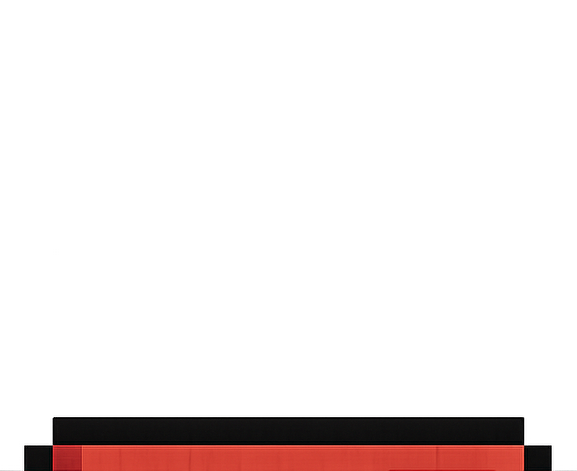
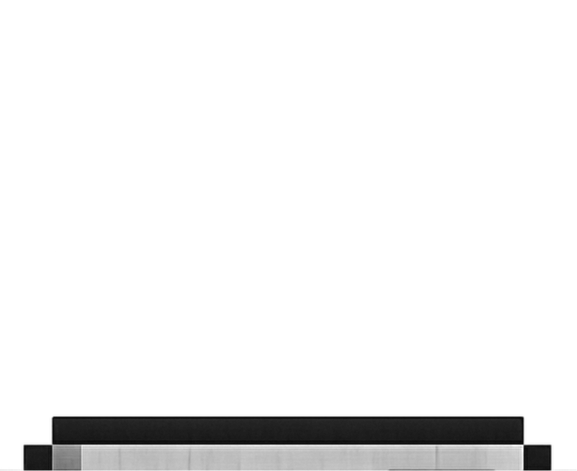
スイッチのグループごとに色分け

Changed region(s): [[0.0312, 0.8917, 0.9671, 1.0]]

diff --git a/src/grid.ts b/src/grid.ts
@@ -106,16 +106,24 @@ export class Grid {
             break;
           }
           case Block.switch: {
-            const sprite = createSprite(cellSize, block, x, y, this.marginY);
+            const switchId = (
+              get(cx.state).cells[y][x] as {
+                block: Block.switch;
+                switchId: string;
+              }
+            ).switchId;
+            const sprite = createSprite(
+              cellSize,
+              block,
+              x,
+              y,
+              this.marginY,
+              switchColor(switchId),
+            );
             stage.addChild(sprite);
             spriteRow.push({ sprite, block });
             get(cx.state).switches.push({
-              id: (
-                get(cx.state).cells[y][x] as {
-                  block: Block.switch;
-                  switchId: string;
-                }
-              ).switchId,
+              id: switchId,
               x,
               y,
               pressedByPlayer: false,
@@ -130,7 +138,20 @@ export class Grid {
             break;
           }
           case Block.switchingBlockOFF: {
-            const sprite = createSprite(cellSize, block, x, y, this.marginY);
+            const switchId = (
+              get(cx.state).cells[y][x] as {
+                block: Block.switch;
+                switchId: string;
+              }
+            ).switchId;
+            const sprite = createSprite(
+              cellSize,
+              block,
+              x,
+              y,
+              this.marginY,
+              switchColor(switchId),
+            );
             stage.addChild(sprite);
             spriteRow.push({ sprite, block });
             get(cx.state).switchingBlocks.push({
@@ -345,38 +366,50 @@ export class Grid {
 
     if (prev.block === Block.switch && cell.block === Block.switchPressed) {
       // switchが押されたとき
+      assert(
+        prevCell.block === Block.switch ||
+          prevCell.block === Block.switchPressed,
+        "block is not switch or switchPressed",
+      );
+      const switchId = prevCell.switchId;
+      if (!switchId) throw new Error("switchId is undefined");
       const blockSprite = createSprite(
         blockSize,
         Block.switchPressed,
         x,
         y,
         marginY,
+        switchColor(switchId),
       );
       stage.addChild(blockSprite);
-      assert(
-        prevCell.block === Block.switch ||
-          prevCell.block === Block.switchPressed,
-        "block is not switch or switchPressed",
-      );
       cells[y][x] = {
         block: Block.switchPressed,
-        switchId: prevCell.switchId,
+        switchId,
         objectId: undefined,
       };
       prev.sprite = blockSprite;
       prev.block = Block.switchPressed;
     } else if (prev.block === Block.switchPressed) {
       // switchが押されているとき
-      const blockSprite = createSprite(blockSize, Block.switch, x, y, marginY);
-      stage.addChild(blockSprite);
       assert(
         prevCell.block === Block.switchPressed ||
           prevCell.block === Block.switch,
         "block is not switch or switchPressed",
       );
+      const switchId = prevCell.switchId;
+      if (!switchId) throw new Error("switchId is undefined");
+      const blockSprite = createSprite(
+        blockSize,
+        Block.switch,
+        x,
+        y,
+        marginY,
+        switchColor(switchId),
+      );
+      stage.addChild(blockSprite);
       cells[y][x] = {
         block: Block.switch,
-        switchId: prevCell.switchId,
+        switchId,
         objectId: undefined,
       };
       prev.sprite = blockSprite;
@@ -435,16 +468,25 @@ export class Grid {
         console.log("prev.block", prev.block);
         return;
       }
-      const blockSprite = createSprite(blockSize, Block.switch, x, y, marginY);
-      stage.addChild(blockSprite);
       assert(
         prevCell.block === Block.switchWithObject ||
           prevCell.block === Block.switch,
         "block is not switchWithObject",
       );
+      const switchId = prevCell.switchId;
+      if (!switchId) throw new Error("switchId is undefined");
+      const blockSprite = createSprite(
+        blockSize,
+        Block.switch,
+        x,
+        y,
+        marginY,
+        switchColor(switchId),
+      );
+
       cells[y][x] = {
         block: Block.switch,
-        switchId: prevCell.switchId,
+        switchId,
         objectId: undefined,
       };
       prev.sprite = blockSprite;
@@ -464,22 +506,25 @@ export class Grid {
         );
         return;
       }
+      assert(
+        prevCell.block === Block.switchingBlockOFF ||
+          prevCell.block === Block.switchingBlockON,
+        "block is not switchingBlock",
+      );
+      const switchId = prevCell.switchId;
+      if (!switchId) throw new Error("switchId is undefined");
       const blockSprite = createSprite(
         blockSize,
         Block.switchingBlockON,
         x,
         y,
         marginY,
+        switchColor(switchId),
       );
       stage.addChild(blockSprite);
-      assert(
-        prevCell.block === Block.switchingBlockOFF ||
-          prevCell.block === Block.switchingBlockON,
-        "block is not switchingBlock",
-      );
       cells[y][x] = {
         block: Block.switchingBlockON,
-        switchId: prevCell.switchId,
+        switchId,
         objectId: undefined,
       };
       prev.sprite = blockSprite;
@@ -493,22 +538,25 @@ export class Grid {
         );
         return;
       }
+      assert(
+        prevCell.block === Block.switchingBlockOFF ||
+          prevCell.block === Block.switchingBlockON,
+        "block is not switchingBlock",
+      );
+      const switchId = prevCell.switchId;
+      if (!switchId) throw new Error("switchId is undefined");
       const blockSprite = createSprite(
         blockSize,
         Block.switchingBlockOFF,
         x,
         y,
         marginY,
+        switchColor(switchId),
       );
       stage.addChild(blockSprite);
-      assert(
-        prevCell.block === Block.switchingBlockOFF ||
-          prevCell.block === Block.switchingBlockON,
-        "block is not switchingBlock",
-      );
       cells[y][x] = {
         block: Block.switchingBlockOFF,
-        switchId: prevCell.switchId,
+        switchId,
         objectId: undefined,
       };
       prev.sprite = blockSprite;
@@ -674,6 +722,7 @@ function createSprite(
   x: number,
   y: number,
   marginY: number,
+  switchColor?: number, // default: #ffa500
 ) {
   switch (block) {
     case Block.block: {
@@ -690,6 +739,7 @@ function createSprite(
     }
     case Block.switch: {
       const switchSprite = new Sprite(switchTexture);
+      if (switchColor) switchSprite.tint = switchColor;
       updateSprite(switchSprite, blockSize, x, y, marginY);
       return switchSprite;
     }
@@ -706,20 +756,24 @@ function createSprite(
     }
     case Block.switchingBlockOFF: {
       const sprite = new Sprite(rockTexture);
-      sprite.tint = 0xffa500;
+      console.log("switchColor", switchColor);
+      if (switchColor) sprite.tint = switchColor;
+      else sprite.tint = 0xffa500;
       updateSprite(sprite, blockSize, x, y, marginY);
       return sprite;
     }
     case Block.switchingBlockON: {
       const sprite = new Sprite(rockTexture);
-      sprite.tint = 0xffa500;
+      if (switchColor) sprite.tint = switchColor;
+      else sprite.tint = 0xffa500;
       sprite.alpha = 0.3;
       updateSprite(sprite, blockSize, x, y, marginY);
       return sprite;
     }
     case Block.switchPressed: {
       const sprite = new Sprite(switchPressedTexture);
-      // sprite.tint = 0x00ff00;
+      if (switchColor) sprite.tint = switchColor;
+      else sprite.tint = 0xffa500;
       updateSprite(sprite, blockSize, x, y, marginY);
       return sprite;
     }
@@ -774,4 +828,11 @@ export function printCells(cells: GridCell[][], context?: string) {
        )
        .join("\n")}`,
   );
+}
+
+function switchColor(switchId: string): number | undefined {
+  // TODO: 暫定的
+  if (switchId === "1") return 0xffa500;
+  if (switchId === "2") return 0x00ff00;
+  return undefined;
 }
